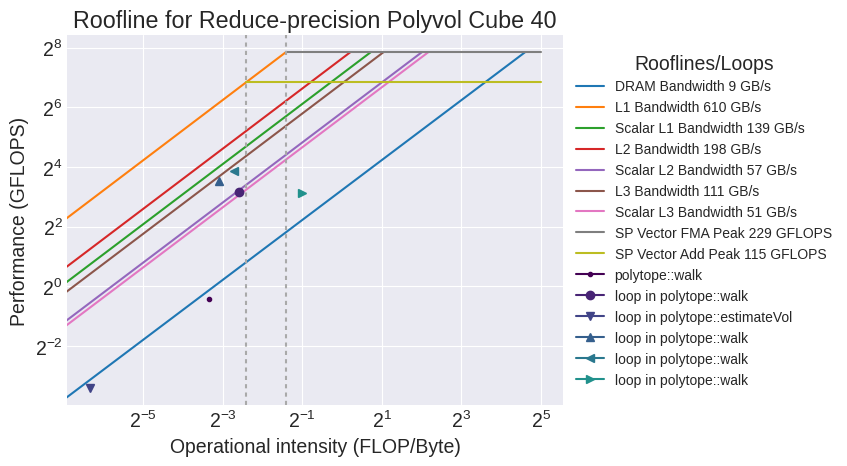
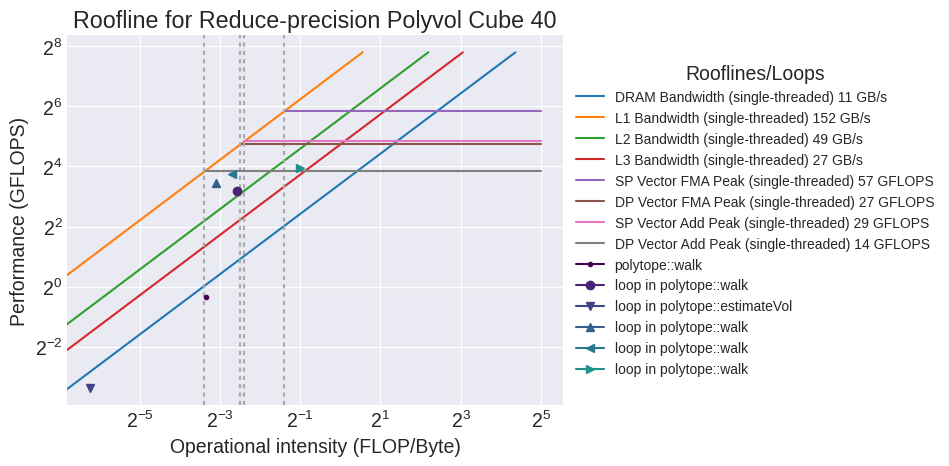
Update roofline plots

diff --git a/plot_roofline.py b/plot_roofline.py
@@ -15,7 +15,8 @@ import pandas as pd
 
 matplotlib.use("Agg")
 
-
+# Roofs we want to exclude
+EXCLUDE = ["Scalar", "Int64", "Int32"]
 # This style requires $DISPLAY available.
 # Use it instead of matplotlib.use('Agg') if you have GUI environment
 # matplotlib.style.use('ggplot')
@@ -58,21 +59,7 @@ def roofline(name, project, scale, precision):
     project = advisor.open_project(project)
     # Open the Advisor Project and load the data.
     data = project.load(advisor.ALL)
-    def quotes(value):
-        value = value.replace("\n", "")
-        value = value.replace("\r", "")
-        if "," in value:
-            return '"{}"'.format(value)
-        return str(value)
     # Iterate over the entries in the bottomup table and print a joined version.
-    """
-    for idx, entry in enumerate(data.bottomup):
-        # Process the header.
-        if idx == 0:
-            print(",".join([quotes(key) for key in entry]))
-        # Process the entires.
-        print(",".join([quotes(entry[key]) for key in entry]))
-    """
     # Access the entries and roof data from the survey data.
     rows = [{col: row[col] for col in row} for row in data.bottomup]
     roofs = data.get_roofs()
@@ -100,25 +87,28 @@ def roofline(name, project, scale, precision):
         math.pow(10, 9)  # as GByte/s
     max_compute_bandwidth /= scale  # scale down as requested by the user
 
-    def key2(roof): return roof.bandwidth if 'bandwidth' in roof.name.lower() else 0
+    def key2(roof): return roof.bandwidth if 'bandwidth' in  roof.name.lower() and 'single-thread' in roof.name.lower() else 0
     max_memory_roof = max(roofs, key=key2)
     max_memory_bandwidth = max_memory_roof.bandwidth / \
         math.pow(10, 9)  # as GByte/s
     max_memory_bandwidth /= scale  # scale down as requested by the user
 
     # Parameters to center the chart
-    ai_min = 2**-5
+    #ai_min = 2**-5
     ai_max = 2**5
-    gflops_min = 2**0
+    #gflops_min = 2**0
     width = ai_max
 
     # Declare the two types of rooflines dictionaries
     memory_roofs = []
     compute_roofs = []
 
+    roofs = filter_roofs(roofs, EXCLUDE)
+    
     for roof in roofs:
         # by default drawing multi-threaded roofs only
-        if 'single-thread' not in roof.name:
+        # We only use a single thread
+        if 'single-thread' in roof.name:
             # memory roofs
             if 'bandwidth' in roof.name.lower():
                 bandwidth = roof.bandwidth / math.pow(10, 9)  # as GByte/s
@@ -167,6 +157,9 @@ def format_label(label):
     label = label.replace("_ZNK8polytope4walkEPfS0_PKfS2_PKDv8_fS5_fRN10XoshiroCpp18Xoshiro128PlusPlusE", "polytope::walk")
     label = label.strip("[]")
     return label
+
+def filter_roofs(strings, exclude):
+    return [s for s in strings if not any(ex in s.name for ex in exclude)]
 
 if __name__ == '__main__':
     roofline()
